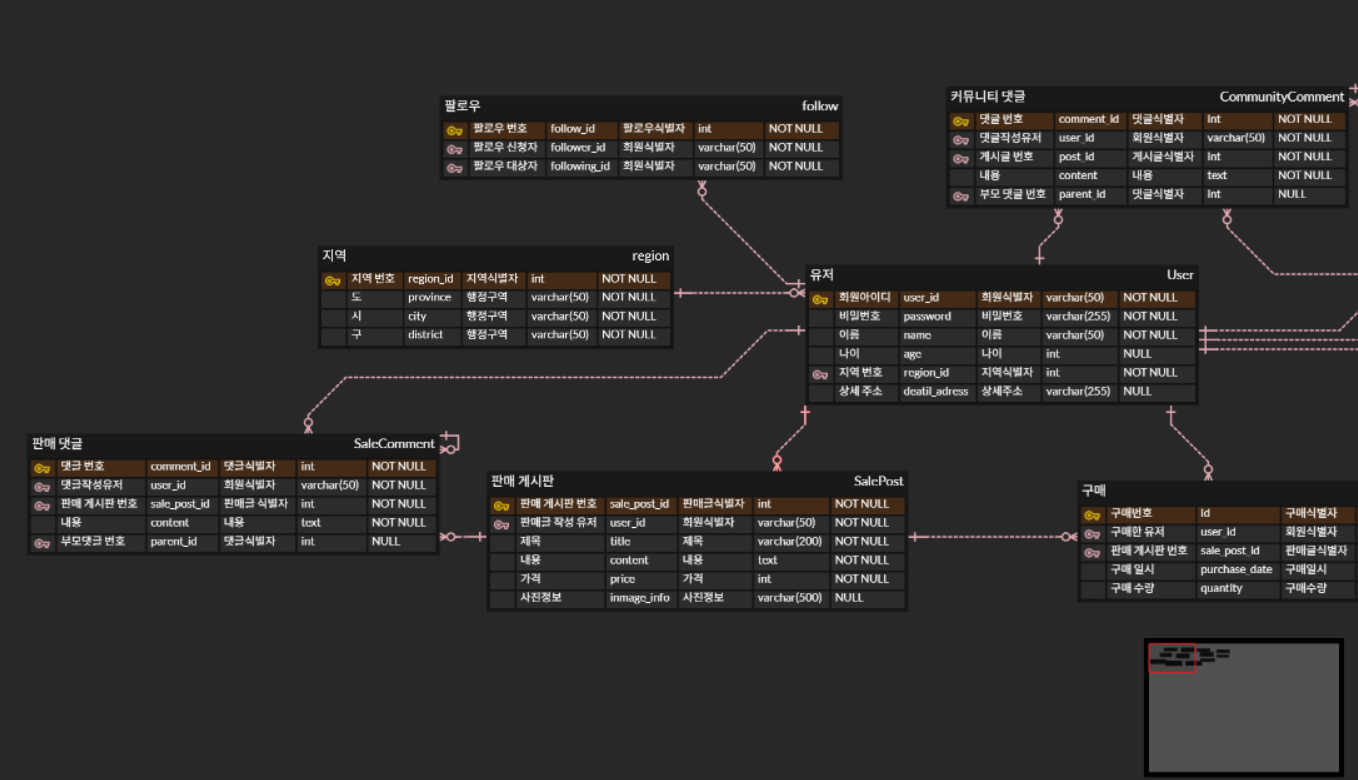
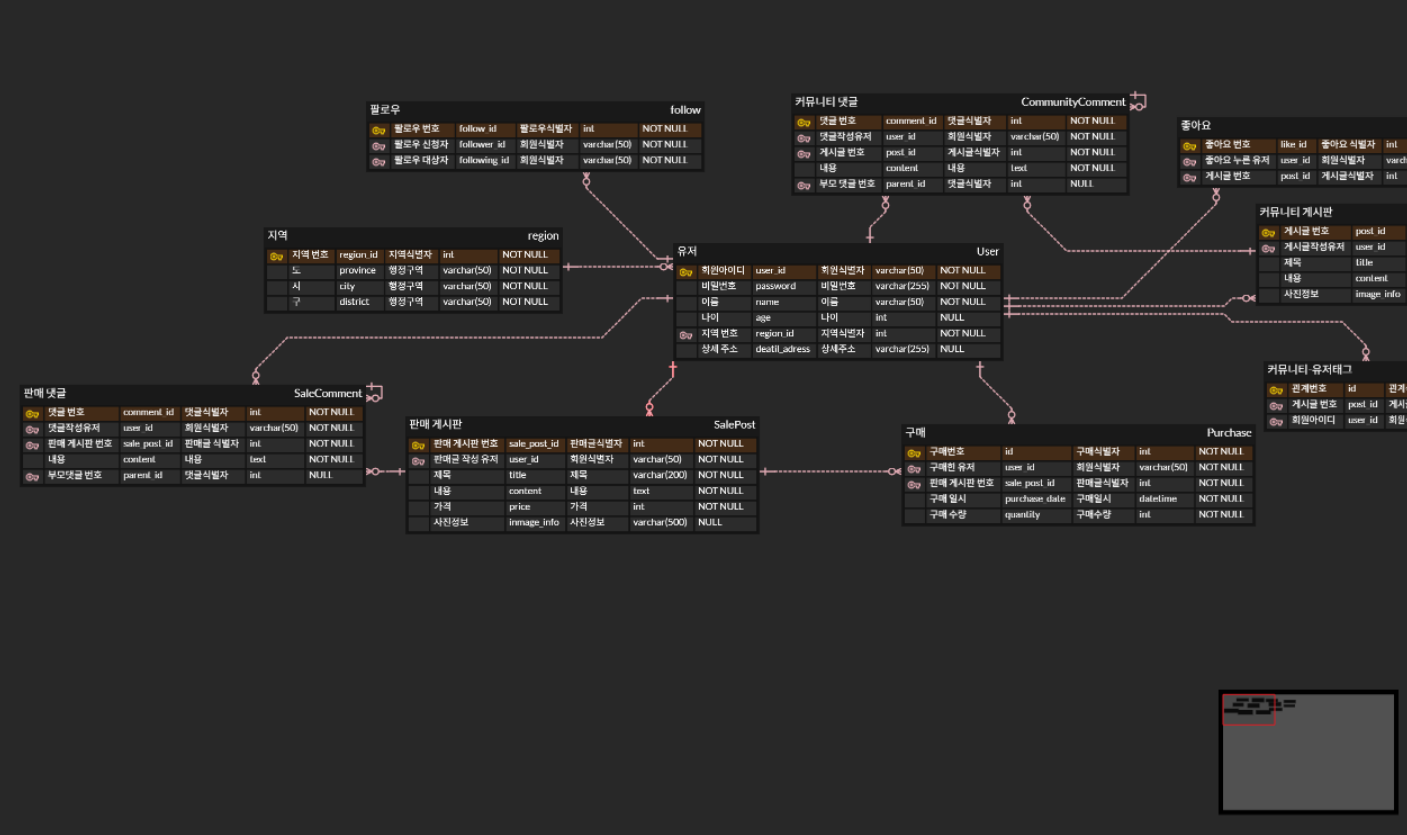
ERD Cloud 피로마켓 ERD 구현

Changed region(s): [[0.0, 0.0923, 1.0, 0.7692], [0.8351, 0.8, 1.0, 1.0]]

diff --git a/SellingCommunity_ERD'/README.md b/SellingCommunity_ERD'/README.md
@@ -1,3 +1,5 @@
 https://www.erdcloud.com/d/7vpkawS2oLmtH44eR
 
 ![alt text](image.png)
+
+![alt text](image-1.png)